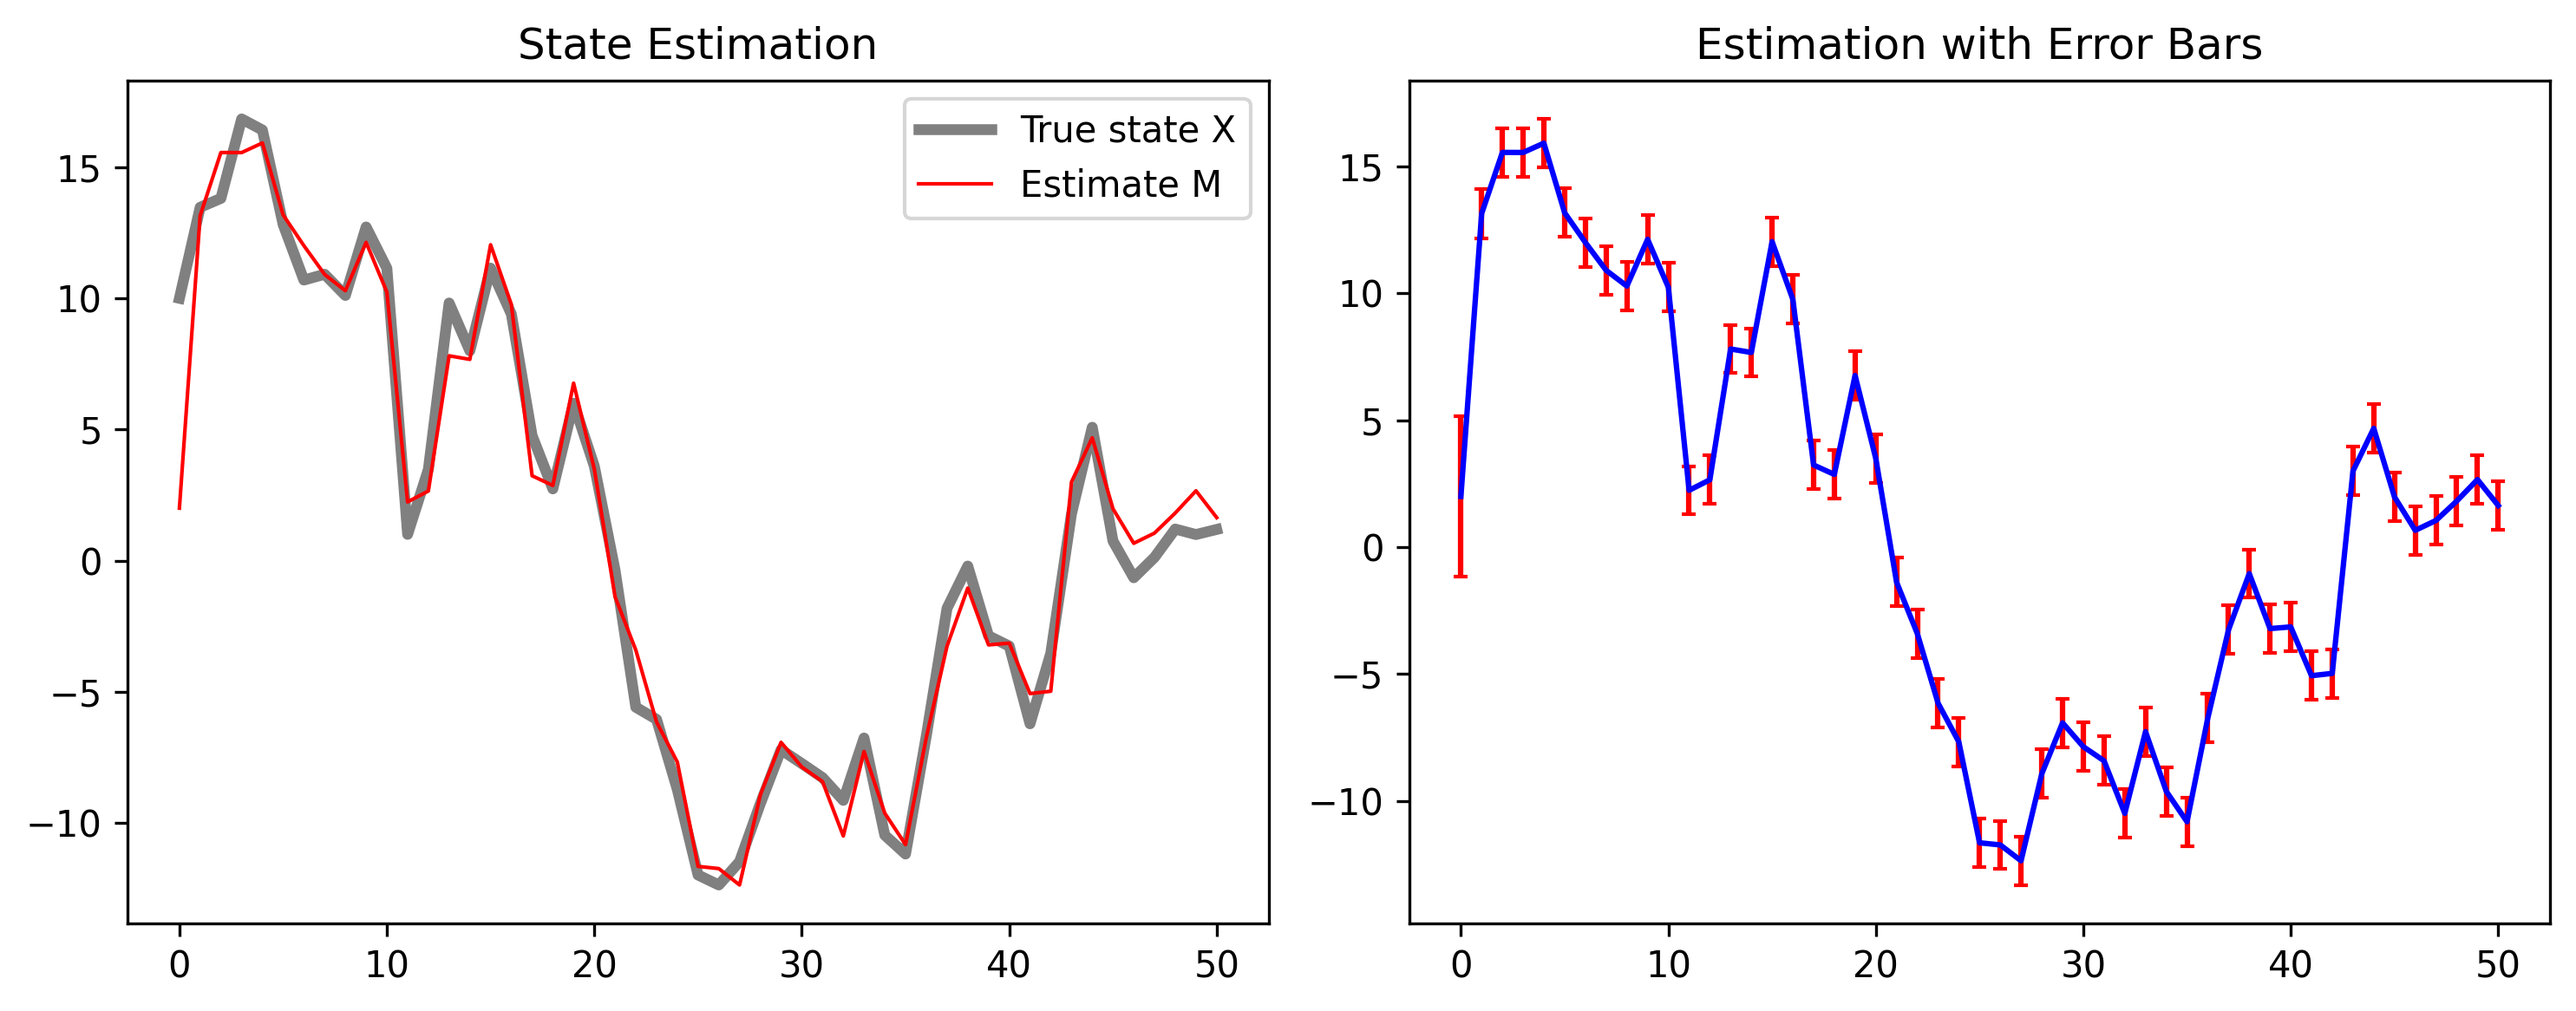
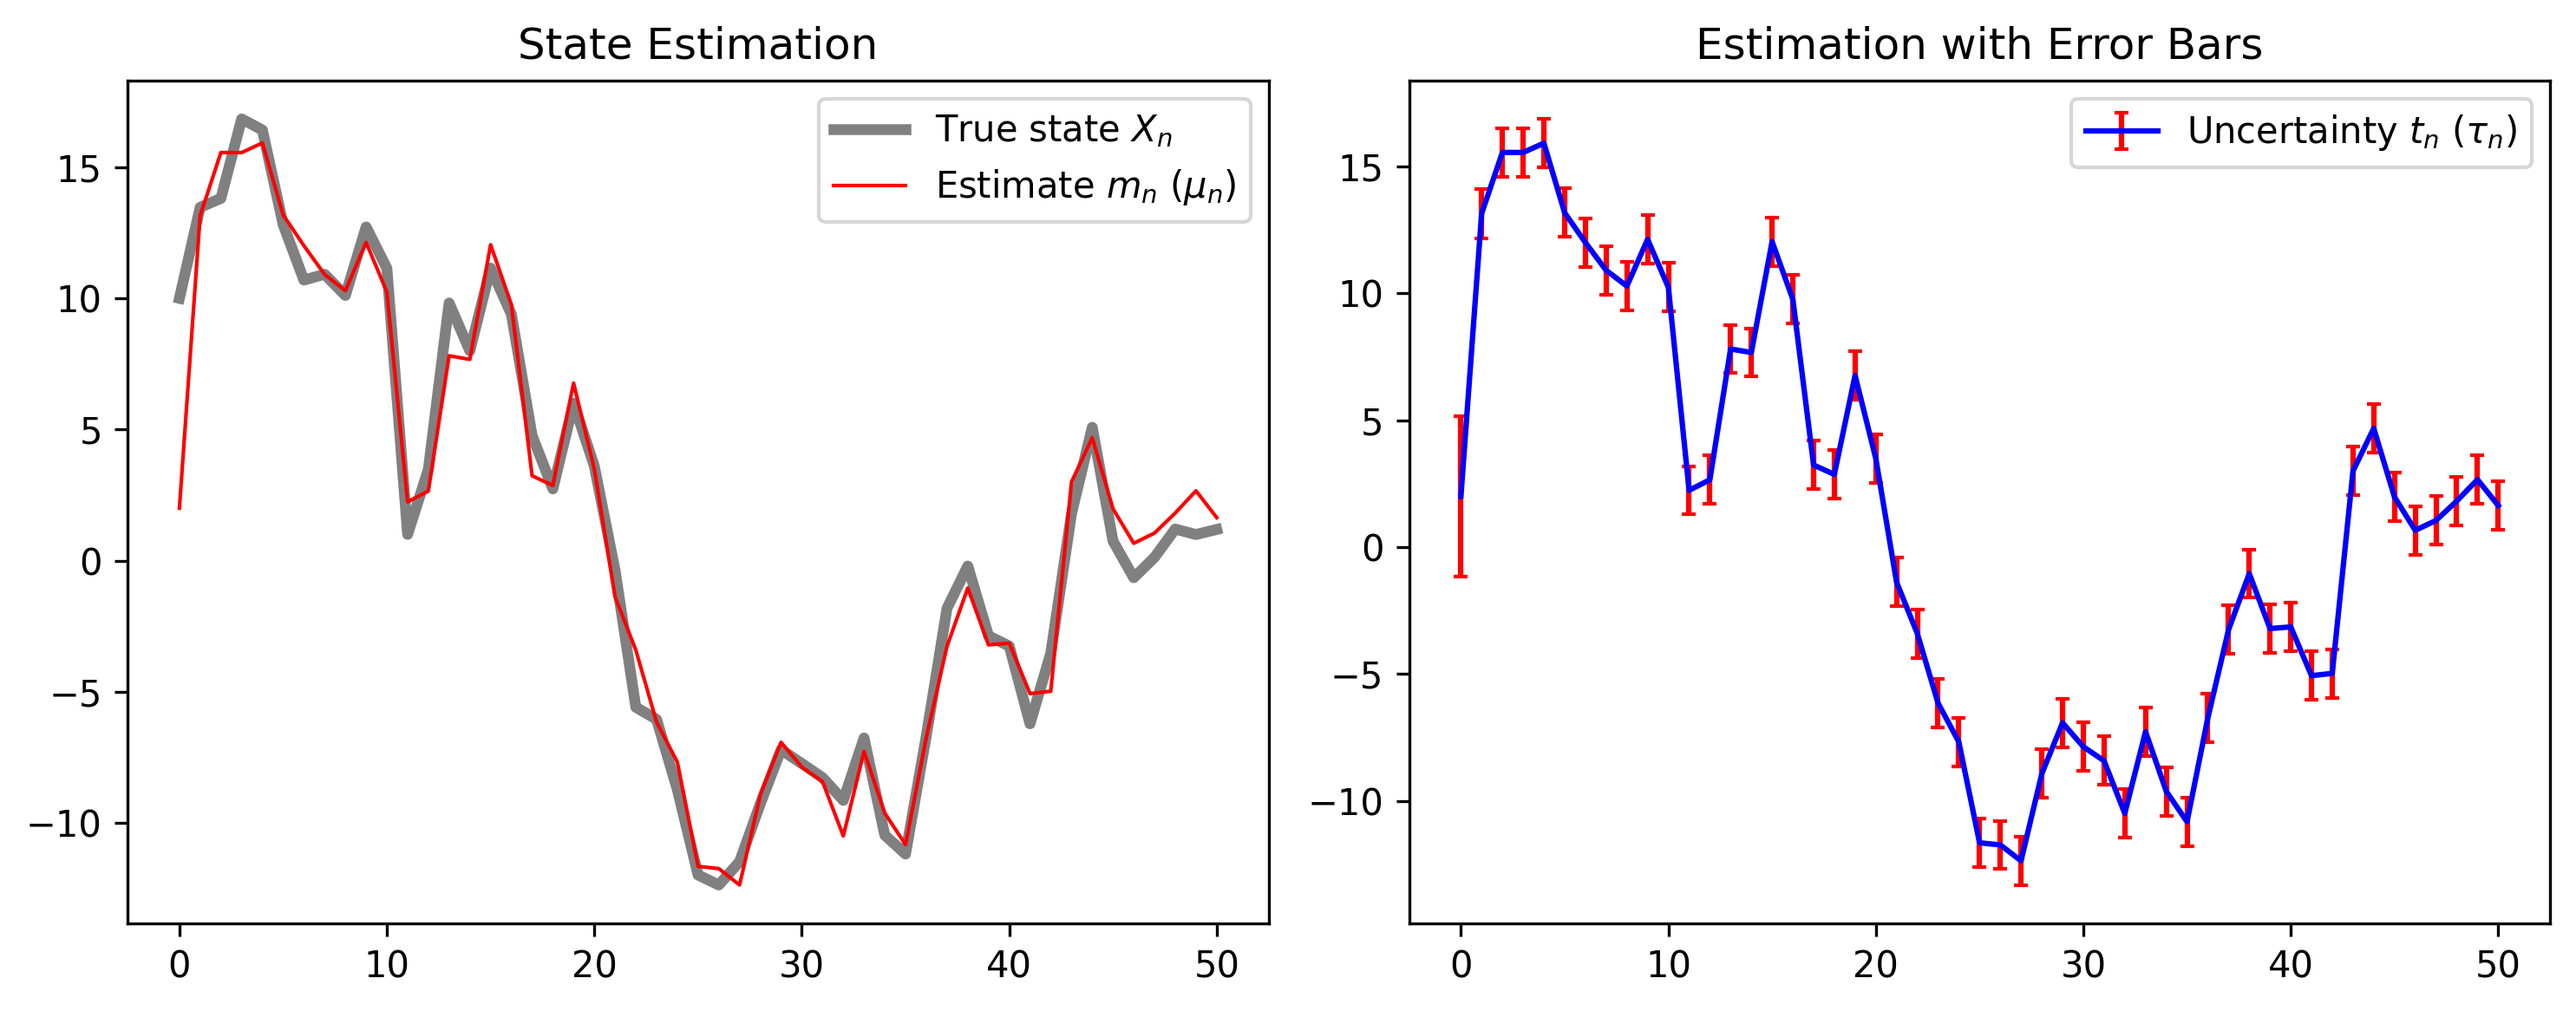
docs: add bilingual theory explanations and fix plot labels for filters

Changed region(s): [[0.3098, 0.0926, 0.4956, 0.247], [0.8054, 0.0926, 0.9912, 0.1852]]

diff --git a/control_theory/kalman_filter.py b/control_theory/kalman_filter.py
@@ -26,17 +26,18 @@ for n in range(1,51):
 
 # グラフ1: 真の状態 X と 推定値 M
 plt.figure(figsize=(10, 4))
-plt.subplot(1, 2, 1) # 横に2つ並べる左側
-plt.plot(X, color='gray', lw=3, label='True state X')
-plt.plot(M, color='red', lw=1, label='Estimate M')
+plt.subplot(1, 2, 1)
+plt.plot(X, color='gray', lw=3, label=r'True state $X_n$')
+plt.plot(M, color='red', lw=1, label=r'Estimate $m_n$ ($\mu_n$)') 
 plt.title('State Estimation')
 plt.legend()
 
 # グラフ2: 推定値 M と エラーバー T (標準偏差)
-plt.subplot(1, 2, 2) # 右側
+plt.subplot(1, 2, 2)
 steps = range(len(M))
-plt.errorbar(steps, M, yerr=T, fmt='-b', ecolor='r', capsize=2) 
+plt.errorbar(steps, M, yerr=T, fmt='-b', ecolor='r', capsize=2, label=r'Uncertainty $t_n$ ($\tau_n$)')
 plt.title('Estimation with Error Bars')
+plt.legend()
 
 plt.tight_layout()
 plt.show()

diff --git a/control_theory/bayesian_estimation.py b/control_theory/bayesian_estimation.py
@@ -19,7 +19,7 @@ for n in range(1, 2001):
 
 plt.figure(figsize=(10, 5))
 plt.plot(X, label=r'Estimated Value $x_n$ ($\mu_n$)', color='blue', lw=1)
-plt.plot(T, label='Uncertainty $t_n$ ($\tau_n$)', color='red', lw=1.5)
+plt.plot(T, label=r'Uncertainty $t_n$ ($\tau_n$)', color='red', lw=1.5)
 plt.axhline(true, color='black', linestyle='--', label='True Value')
 plt.title('Bayesian Estimation Process')
 plt.xlabel('Steps (n)')

diff --git a/control_theory/README.md b/control_theory/README.md
@@ -2,10 +2,41 @@
 
 This directory focuses on state estimation and stochastic control.
 
+このディレクトリでは状態の推定と確率論的制御に着目します。
+
+---
+
 ## 1. Bayesian Estimation
 General recursive Bayesian update for a constant value.
+
+定数値の一般的なベイズの定理による更新
+
+$Y=cx+V$という信号を得るとき、ガウス分布に従うと仮定した確率変数Xの分布を次の式を用いて更新する。
+
+**平均 $μ_n$ の更新:**
+$$\mu_n = \mu_{n-1} + \frac{c\tau_{n-1}}{1+c^2\tau_{n-1}}(y_n - c\mu_{n-1})$$
+
+**分散 $\tau_n$ の更新:**
+$$\tau_n = \frac{\tau_{n-1}}{1+c^2\tau_{n-1}}$$
+
 ![Bayesian Estimation](../images/bayesian_convergence.png)
+
+---
 
 ## 2. Kalman Filter
 Extension of Bayesian estimation to dynamical systems.
+
+ベイズ推定の動的システムへの拡張
+
+$X_n=aX_{n-1}+bW_n$というダイナミクスに従って確率変数Xが変化し、それに対して、$Y=cX_{n-1}+V_n$という信号が得られるとき、ガウス分布に従うと仮定した確率変数Xの分布を次の式を用いて更新する。
+
+**カルマンゲイン $K$:**
+$$K = \frac{c(a^2\tau_{n-1}+b^2)}{1+c^2(a^2\tau_{n-1}+b^2)}$$
+
+**平均 $\mu_n$ の更新:**
+$$\mu_n = a\mu_{n-1} + K(y_n - c\mu_{n-1})$$
+
+**分散 $\tau_n$ の更新:**
+$$\tau_n = \frac{a^2\tau_{n-1}+b^2}{1+c^2(a^2\tau_{n-1}+b^2)}$$
+
 ![Kalman Filter](../images/kalman_filter.png)
